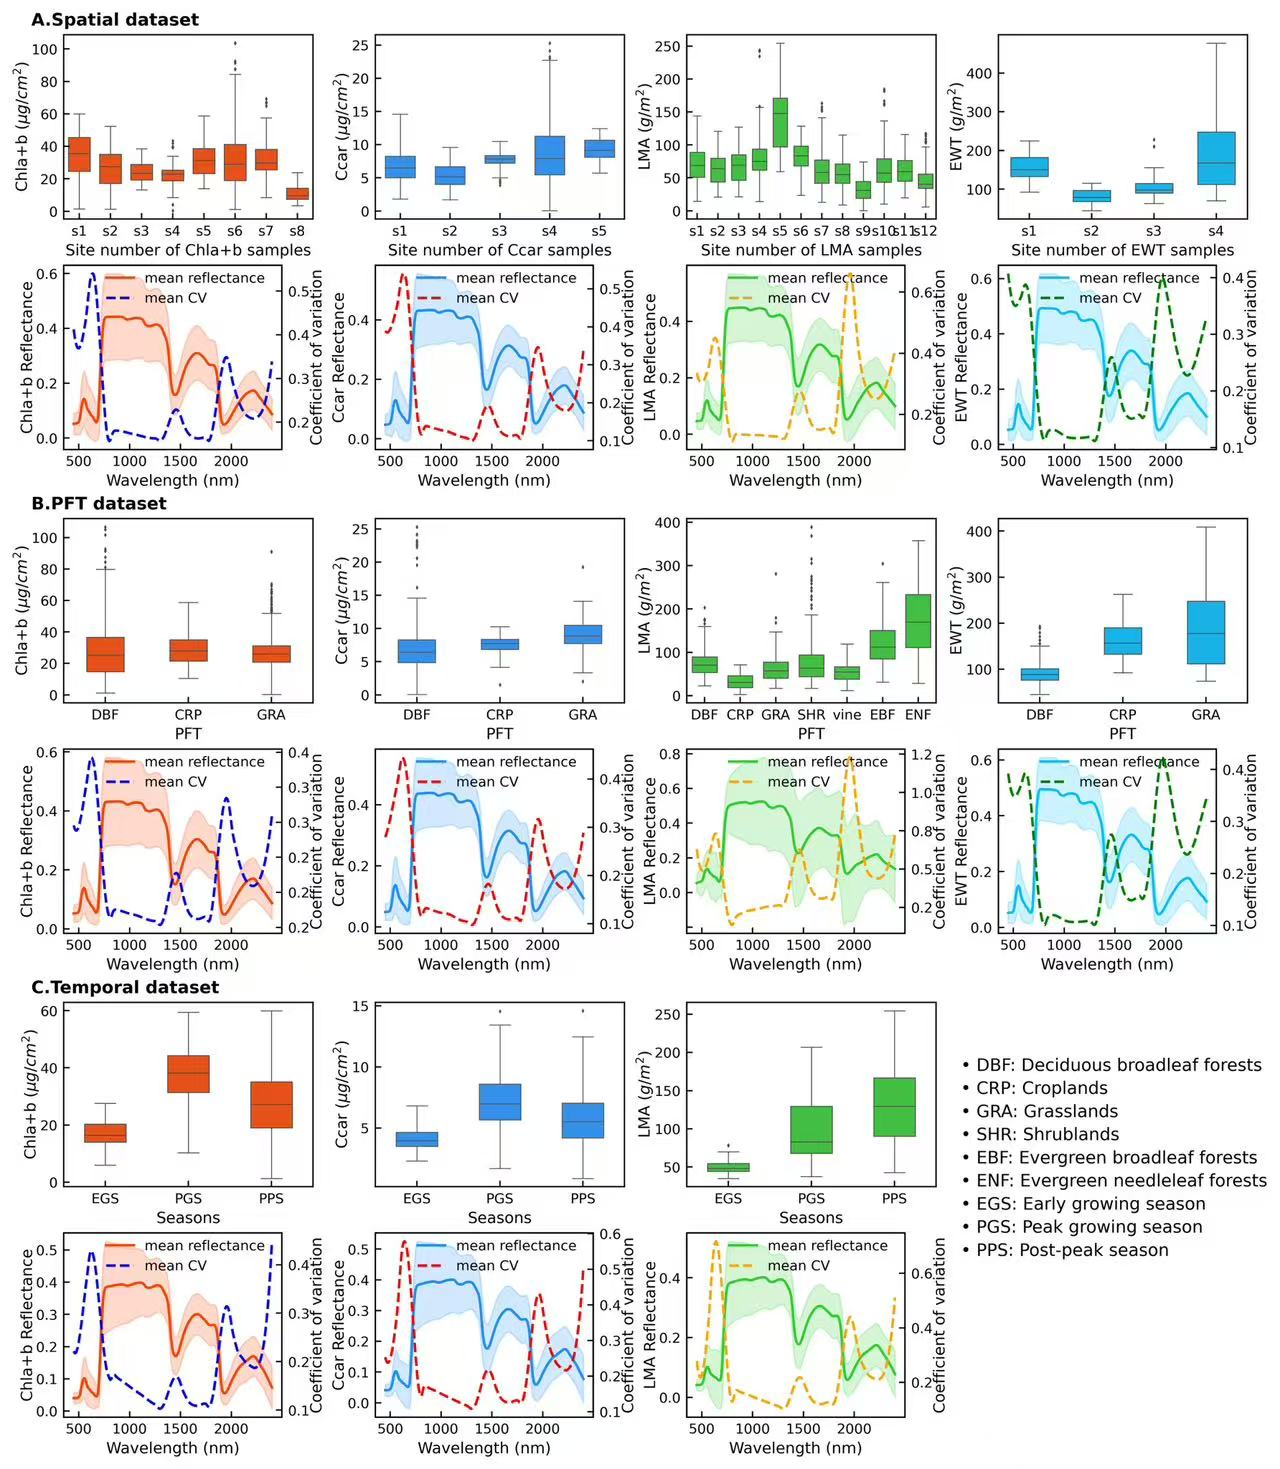
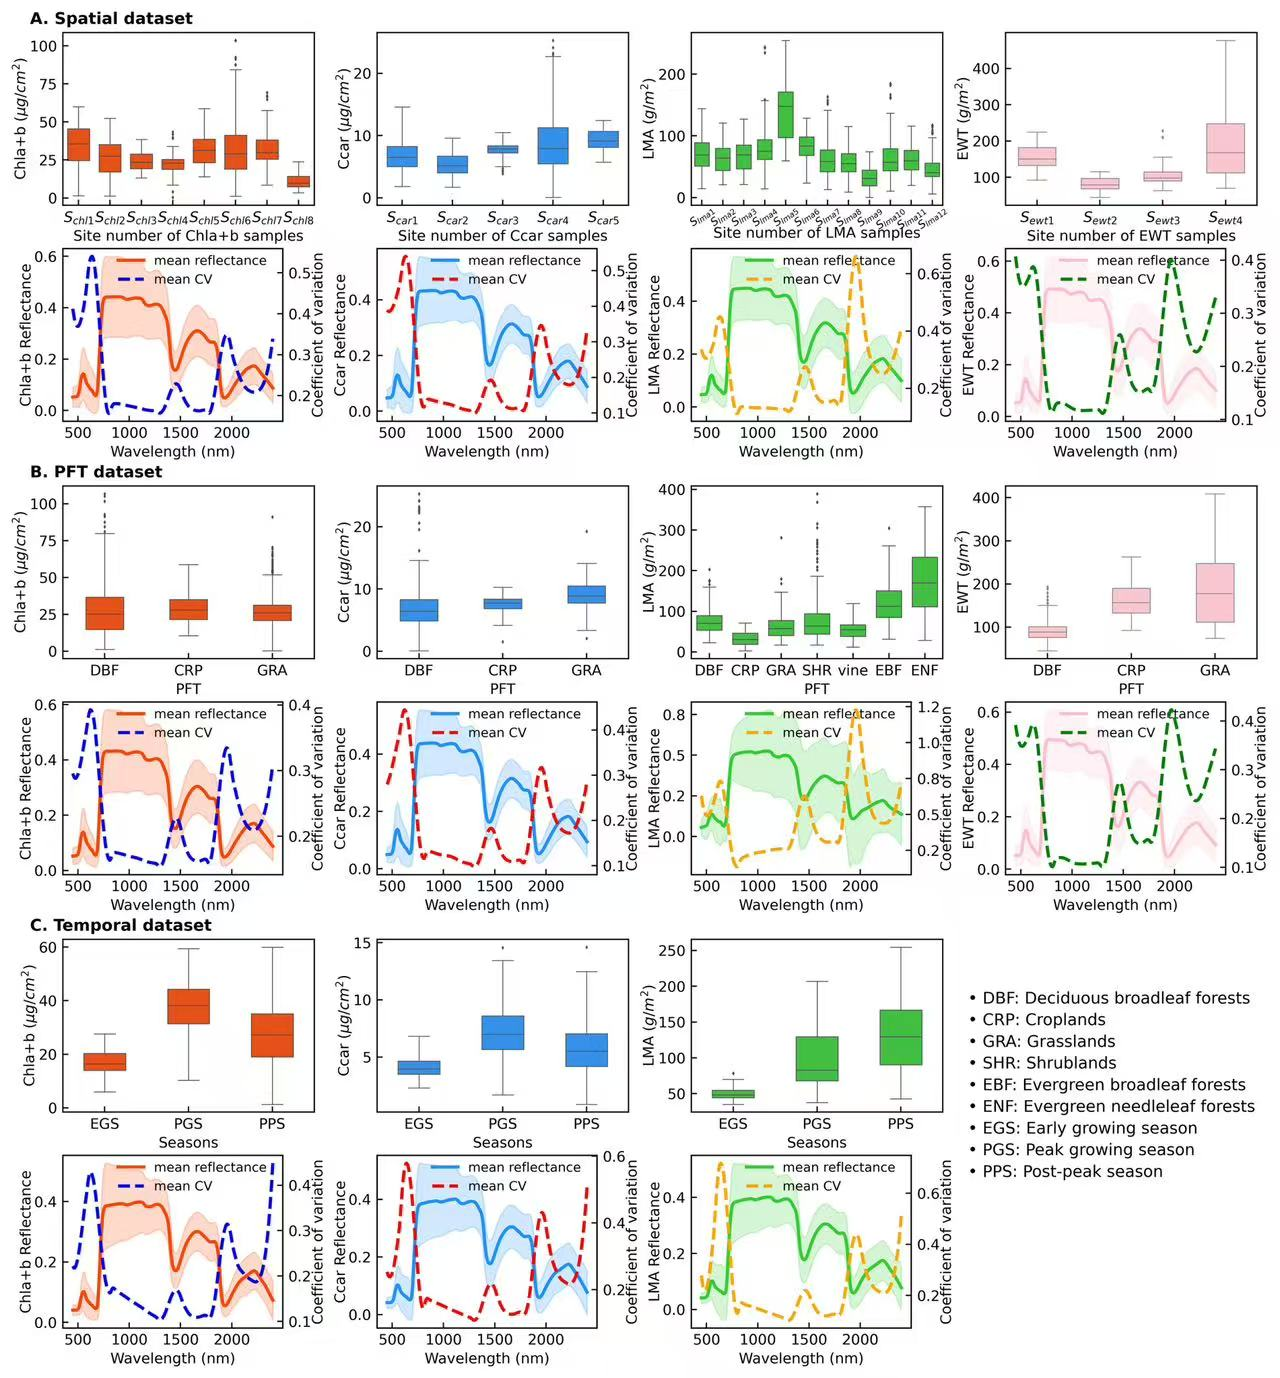
update

Changed region(s): [[0.0, 0.0, 1.0, 0.9985], [0.2188, 0.3433, 0.25, 0.3745], [0.125, 0.7177, 0.1562, 0.7489]]

diff --git a/pages/tutorial_pages/scatter_line_plot.html b/pages/tutorial_pages/scatter_line_plot.html
@@ -658,18 +658,21 @@ from matplotlib import gridspec
 from matplotlib.ticker import FuncFormatter
 from matplotlib.ticker import FormatStrFormatter
 
-colors = {'Chla+b':'orangered','Ccar':'dodgerblue','EWT':"deepskyblue",'LMA':'limegreen'}
+colors = {'Chla+b':'orangered','Ccar':'dodgerblue','EWT':"pink",'LMA':'limegreen'}
 colors2 = {'Chla+b':'blue','Ccar':'red','EWT':"green",'LMA':'orange'}
 units = {'Chla+b':' ($\mu g/cm^2$)','Ccar':' ($\mu g/cm^2$)','EWT':' ($g/m^2$)','LMA':' ($g/m^2$)'}
-site_label = {'Chla+b':['s1','s2','s3','s4','s5','s6','s7','s8'],'Ccar':['s1','s2','s3','s4','s5'],
-              'EWT':['s1','s2','s3','s4'],'LMA':['s1','s2','s3','s4','s5','s6','s7','s8','s9','s10','s11','s12']}
+site_label = {'Chla+b':[r"$S_{chl1}$",r"$S_{chl2}$",r"$S_{chl3}$",r"$S_{chl4}$",r"$S_{chl5}$",r"$S_{chl6}$",r"$S_{chl7}$",r"$S_{chl8}$"],
+              'Ccar':[r"$S_{car1}$",r"$S_{car2}$",r"$S_{car3}$",r"$S_{car4}$",r"$S_{car5}$"],
+              'EWT':[r"$S_{ewt1}$",r"$S_{ewt2}$",r"$S_{ewt3}$",r"$S_{ewt4}$"],
+              'LMA':[r"$S_{lma1}$",r"$S_{lma2}$",r"$S_{lma3}$",r"$S_{lma4}$",r"$S_{lma5}$",r"$S_{lma6}$",
+                     r"$S_{lma7}$",r"$S_{lma8}$",r"$S_{lma9}$",r"$S_{lma10}$",r"$S_{lma11}$",r"$S_{lma12}$"]}
 pft_label = {'Chla+b':['DBF',"CRP","GRA"],'Ccar':['DBF',"CRP","GRA"],
               'EWT':['DBF',"CRP","GRA"],'LMA':['DBF',"CRP","GRA","SHR","vine","EBF","ENF"]}
 temp_label = {'Chla+b':['EGS','PGS','PPS'],'Ccar':['EGS','PGS','PPS'],'LMA':['EGS','PGS','PPS']}
 
 data_type = ["sites","PFT","temporal"]
 
-fig = plt.figure(figsize = (13,15))
+fig = plt.figure(figsize = (14,15))
 gs = gridspec.GridSpec(124, 80)
 
 config = {"font.family":'Calibri'}
@@ -681,7 +684,7 @@ for ds in data_type:
     tr_name = ["Chla+b","Ccar","LMA","EWT"] if ds !="temporal" else ["Chla+b","Ccar","LMA"]
     m = 0
     for tr in tr_name:
-        data = pd.read_csv(f"data/{tr}_dataset_{ds}.csv")
+        data = pd.read_csv(f"../0_datasets/{tr}_dataset_{ds}.csv")
         df, refl = data.loc[:,"Dataset ID":], data.loc[:,"450":"2400"]
         
         ax = plt.subplot(gs[j:j+16, m:m+16])
@@ -697,11 +700,10 @@ for ds in data_type:
         CV = refl.loc[:,wl_min:wl_max].std()/refl.loc[:,wl_min:wl_max].mean()
         wl = np.arange(int(wl_min),int(wl_max)+1,10)
         
-        axes.plot(wl,m_all,linewidth=1.5,color = colors[tr], label = "mean reflectance")
+        axes.plot(wl,m_all,linewidth=2,color = colors[tr], label = "mean reflectance")
         axes.fill_between(wl, lc_all,hc_all, alpha=0.2,color = colors[tr])
-        axes1.plot(wl,savgol_filter(CV,25,3),linewidth=1.5,ls = '--',color = colors2[tr],label = "mean CV")
+        axes1.plot(wl,savgol_filter(CV,25,3),linewidth=2,ls = '--',color = colors2[tr],label = "mean CV")
 
-    
         lines, labels = axes.get_legend_handles_labels()
         lines2, labels2 = axes1.get_legend_handles_labels()
         axes.legend(lines + lines2, labels + labels2, loc = 'upper right',facecolor= 'none',
@@ -711,12 +713,12 @@ for ds in data_type:
         axes.set_ylabel(f"{tr} Reflectance", fontsize=9, labelpad = 0.2)
         axes1.set_ylabel("Coefficient of variation", fontsize=9, labelpad =0.2)
 
-        axes.tick_params(labelsize=8, direction = 'in')
-        axes1.tick_params(labelsize=8, direction = 'in')
+        axes.tick_params(labelsize=9, direction = 'in')
+        axes1.tick_params(labelsize=9, direction = 'in')
         
         axes.yaxis.set_major_formatter(FuncFormatter(no_negative))
         axes1.yaxis.set_major_formatter(FormatStrFormatter('%.1f'))
-            
+           
         if ds == "sites":
             site_info = df.groupby("Site ID")["Latitude","Longitude"].mean().sort_values(by='Latitude')
             site_info['Latitude'] = site_info['Latitude'].round(2)
@@ -731,11 +733,16 @@ for ds in data_type:
             
             width = {'Chla+b':0.7,'Ccar':0.6,'EWT':0.6,'LMA':0.7}
             sns.boxplot(x= 'Site ID', y= tr,data=df, color=colors[tr],ax = ax, fliersize=0.5,saturation = 0.8,linewidth = 0.5, whis =2,width = width[tr])
+            
             ax.set_xlabel(f'Site number of {tr} samples',fontsize = 9,labelpad = 3)
             ax.set_ylabel(tr+ units[tr], fontsize=9, labelpad = 0.2)
-            ax.tick_params(labelsize=8, direction = 'in')
+            ax.tick_params(labelsize=9, direction = 'in')
             ax.set_xticklabels(site_label[tr])
-            ax.text(-0.13,1.05, 'A.Spatial dataset', fontsize=10,transform=ax.transAxes,weight='bold') if tr == "Chla+b" else None
+            if tr == "LMA":
+                ax.tick_params(axis = "x", labelsize=7, direction = 'in',pad = -0.5, rotation=35)
+                ax.set_xlabel(f'Site number of {tr} samples',fontsize = 9,labelpad = -3)
+
+            ax.text(-0.13,1.05, 'A. Spatial dataset', fontsize=10,transform=ax.transAxes,weight='bold') if tr == "Chla+b" else None
             
         elif ds == "PFT":
             df_map = pd.DataFrame({'PFT':['Deciduous broadleaf forests', 'Croplands', 'Grasslands',
@@ -751,9 +758,9 @@ for ds in data_type:
             sns.boxplot(x= 'PFT', y= tr,data=df, color=colors[tr],ax = ax, fliersize=0.5,saturation = 0.8,linewidth = 0.5, whis =2,width = width[tr])
             ax.set_xlabel(f'PFT',fontsize = 9,labelpad = 3)
             ax.set_ylabel(tr+ units[tr], fontsize=9, labelpad = 0.2)
-            ax.tick_params(labelsize=8, direction = 'in')
+            ax.tick_params(labelsize=9, direction = 'in')
             ax.set_xticklabels(pft_label[tr])
-            ax.text(-0.13,1.05, 'B.PFT dataset', fontsize=10,transform=ax.transAxes,weight='bold') if tr == "Chla+b" else None
+            ax.text(-0.13,1.05, 'B. PFT dataset', fontsize=10,transform=ax.transAxes,weight='bold') if tr == "Chla+b" else None
             
         else:
             df_map = pd.DataFrame({'season':['early growing season','peak growing season','post-peak season']})
@@ -765,9 +772,9 @@ for ds in data_type:
             sns.boxplot(x= 'season', y= tr,data=df, color=colors[tr],ax = ax, fliersize=0.5,saturation = 0.8,linewidth = 0.5, whis =2,width = 0.5)
             ax.set_xlabel(f'Seasons',fontsize = 9,labelpad = 3)
             ax.set_ylabel(tr+ units[tr], fontsize=9, labelpad = 0.2)
-            ax.tick_params(labelsize=8, direction = 'in')
+            ax.tick_params(labelsize=9, direction = 'in')
             ax.set_xticklabels(temp_label[tr])
-            ax.text(-0.13,1.05, 'C.Temporal dataset', fontsize=10,transform=ax.transAxes,weight='bold') if tr == "Chla+b" else None
+            ax.text(-0.13,1.05, 'C. Temporal dataset', fontsize=10,transform=ax.transAxes,weight='bold') if tr == "Chla+b" else None
             text = ('• DBF: Deciduous broadleaf forests\n'
                     '• CRP: Croplands\n'
                     '• GRA: Grasslands\n'
@@ -777,9 +784,9 @@ for ds in data_type:
                     '• EGS: Early growing season\n'
                     '• PGS: Peak growing season\n'
                     '• PPS: Post-peak season\n')
-            ax.text(1.1,-0.5, text,fontsize=10,transform=ax.transAxes,linespacing=1.5) if tr == "LMA" else None           
+            ax.text(1.1,-0.5, text,fontsize=10,transform=ax.transAxes,linespacing=1.5) if tr == "LMA" else None       
         m = m+20
-    j = j+42  
+    j = j+42   
 plt.savefig(f'1_Figures/1_leaf traits variations.png', dpi=500, bbox_inches='tight')</code><button id="copyButton" class="copy-btn" onclick="copyText(this)">Copy</button></pre>
               <img style="max-width:100%;overflow:hidden;" src="./data_visualization_image/leaf_traits_variation.jpg"
                 alt="Image 1">
@@ -822,7 +829,8 @@ for i in range(len(refl_pro)):
 
 m_all = np.mean(refl_pro,0)
 std_all = np.std(refl_pro,0)
-lc_all,hc_all = m_all-1.96*std_all,m_all+1.96*std_all
+lc_all = np.percentile(refl_pro, 2.5, axis=0)
+hc_all = np.percentile(refl_pro, 97.5, axis=0)
 ax.fill_between(wl, lc_all,hc_all, alpha=0.1,color = 'orangered',label = '95% CI of mean reflectance',zorder = 2)
 ax.plot(wl,m_all,linewidth=2,c = 'orangered',label = 'Mean reflectance',zorder = 3)
 
@@ -846,7 +854,8 @@ for i in range(len(refl_sip)):
 
 m_all = np.mean(refl_sip,0)
 std_all = np.std(refl_sip,0)
-lc_all,hc_all = m_all-1.96*std_all,m_all+1.96*std_all
+lc_all = np.percentile(refl_sip, 2.5, axis=0)
+hc_all = np.percentile(refl_sip, 97.5, axis=0)
 ax.fill_between(wl, lc_all,hc_all, alpha=0.1,color = 'b',label = '95% CI of mean reflectance',zorder = 2)
 ax.plot(wl,m_all,linewidth=2,c = 'b',label = 'Mean reflectance',zorder = 3)
 ax.set_xlabel('Wavelength (nm)', fontsize=9, labelpad = 0.2)
